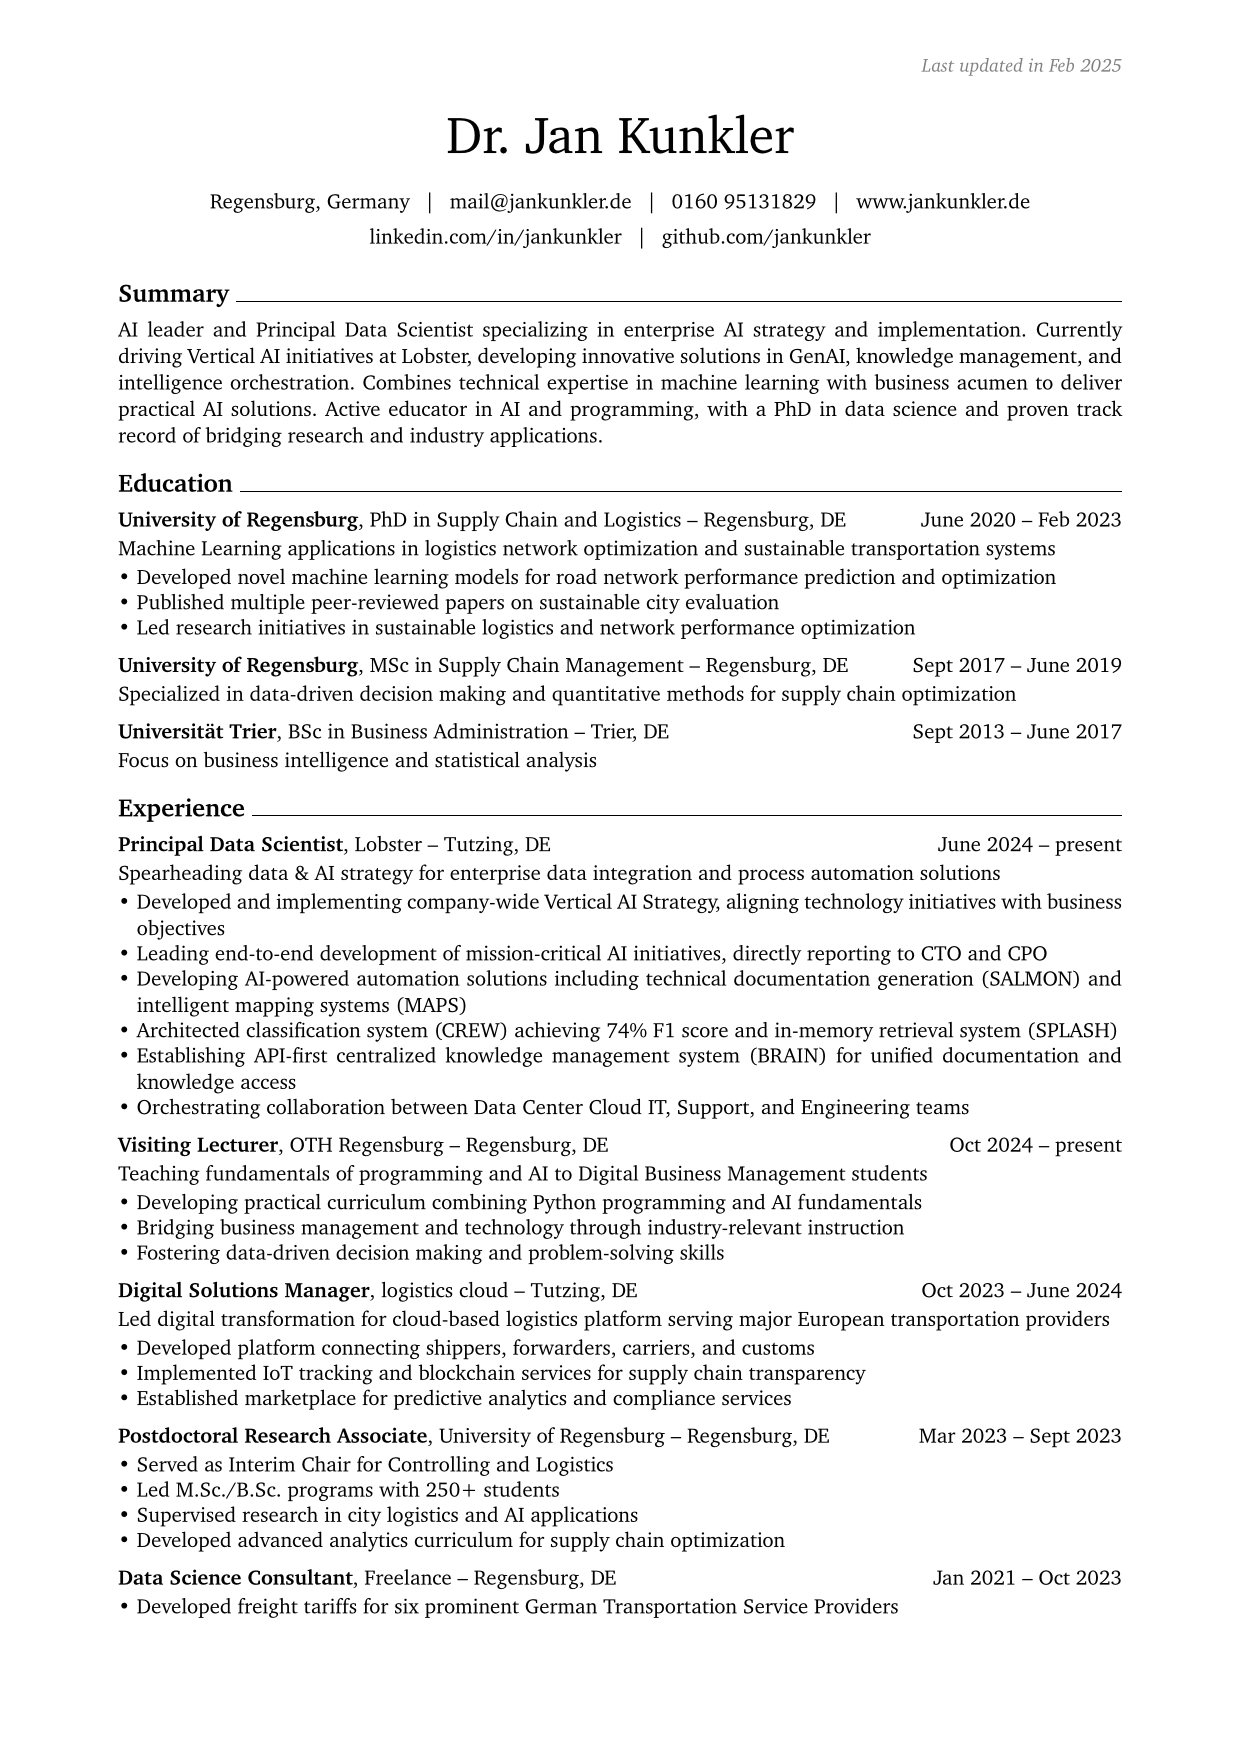
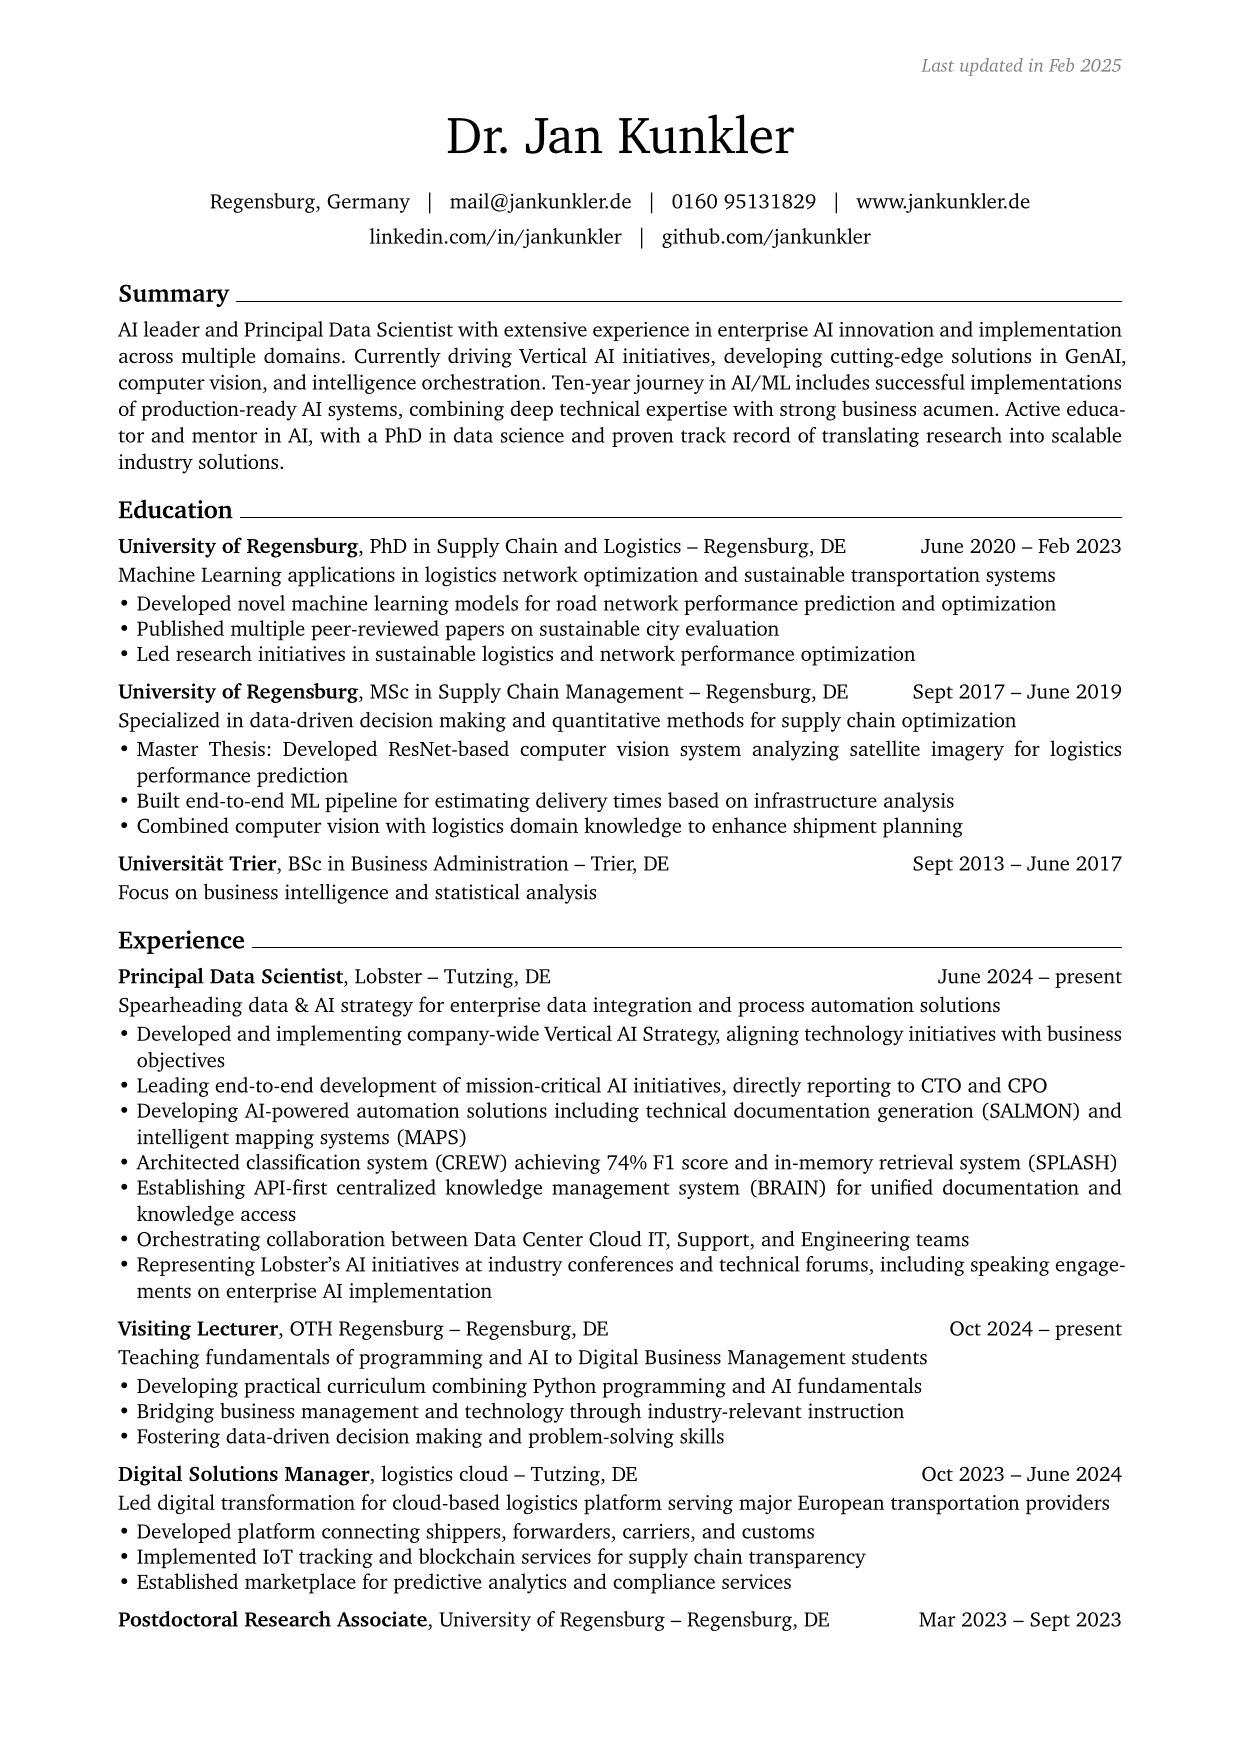
Updated CV

Changed region(s): [[0.0919, 0.1847, 0.9194, 0.9236], [0.7355, 0.8005, 0.8887, 0.862], [0.7355, 0.8928, 0.8887, 0.9236]]

diff --git a/rendercv_output/Dr._Jan_Kunkler_CV.html b/rendercv_output/Dr._Jan_Kunkler_CV.html
@@ -49,7 +49,7 @@
         <li>GitHub: <a href="https://github.com/jankunkler">jankunkler</a></li>
         </ul>
         <h1>Summary</h1>
-        <p>AI leader and Principal Data Scientist specializing in enterprise AI strategy and implementation. Currently driving Vertical AI initiatives at Lobster, developing innovative solutions in GenAI, knowledge management, and intelligence orchestration. Combines technical expertise in machine learning with business acumen to deliver practical AI solutions. Active educator in AI and programming, with a PhD in data science and proven track record of bridging research and industry applications.</p>
+        <p>AI leader and Principal Data Scientist with extensive experience in enterprise AI innovation and implementation across multiple domains. Currently driving Vertical AI initiatives, developing cutting-edge solutions in GenAI, computer vision, and intelligence orchestration. Ten-year journey in AI/ML includes successful implementations of production-ready AI systems, combining deep technical expertise with strong business acumen. Active educator and mentor in AI, with a PhD in data science and proven track record of translating research into scalable industry solutions.</p>
         <h1>Education</h1>
         <h2>University of Regensburg, PhD in Supply Chain and Logistics</h2>
         <ul>
@@ -63,6 +63,9 @@
         <ul>
         <li>Sept 2017 – June 2019</li>
         <li>Regensburg, DE</li>
+        <li>Master Thesis: Developed ResNet-based computer vision system analyzing satellite imagery for logistics performance prediction</li>
+        <li>Built end-to-end ML pipeline for estimating delivery times based on infrastructure analysis</li>
+        <li>Combined computer vision with logistics domain knowledge to enhance shipment planning</li>
         </ul>
         <h2>Universität Trier, BSc in Business Administration</h2>
         <ul>
@@ -80,6 +83,7 @@
         <li>Architected classification system (CREW) achieving 74% F1 score and in-memory retrieval system (SPLASH)</li>
         <li>Establishing API-first centralized knowledge management system (BRAIN) for unified documentation and knowledge access</li>
         <li>Orchestrating collaboration between Data Center Cloud IT, Support, and Engineering teams</li>
+        <li>Representing Lobster's AI initiatives at industry conferences and technical forums, including speaking engagements on enterprise AI implementation</li>
         </ul>
         <h2>OTH Regensburg, Visiting Lecturer</h2>
         <ul>
@@ -140,7 +144,7 @@
         <h1>Skills</h1>
         <ul>
         <li>AI Leadership: AI Strategy Development, Enterprise AI Architecture, Cross-functional Team Leadership, AI Education &amp; Mentorship</li>
-        <li>AI/ML Expertise: Large Language Models, Agentic AI, Multi-Agent Systems, Neural Networks, Machine Learning, MLOps</li>
+        <li>AI/ML Expertise: Large Language Models, Computer Vision, Agentic AI, Multi-Agent Systems, Neural Networks (ResNet, Transformers), Machine Learning, MLOps</li>
         <li>Technical Infrastructure: AWS (SageMaker, Bedrock, Lambda, Fargate), Cloud Architecture, Distributed Systems</li>
         <li>Data Engineering: Knowledge Graphs, ETL Pipeline Design, Python, SQL, R, Go</li>
         <li>Tools &amp; Frameworks: PyTorch, LangChain, Hugging Face Transformers, BAML, Pydantic-AI, Docker, FastAPI, MLflow, Weights &amp; Biases, Metaflow, Ray, Streamlit, Gradio</li>

diff --git a/rendercv_output/Dr._Jan_Kunkler_CV.md b/rendercv_output/Dr._Jan_Kunkler_CV.md
@@ -10,7 +10,7 @@
 
 # Summary
 
-AI leader and Principal Data Scientist specializing in enterprise AI strategy and implementation. Currently driving Vertical AI initiatives at Lobster, developing innovative solutions in GenAI, knowledge management, and intelligence orchestration. Combines technical expertise in machine learning with business acumen to deliver practical AI solutions. Active educator in AI and programming, with a PhD in data science and proven track record of bridging research and industry applications.
+AI leader and Principal Data Scientist with extensive experience in enterprise AI innovation and implementation across multiple domains. Currently driving Vertical AI initiatives, developing cutting-edge solutions in GenAI, computer vision, and intelligence orchestration. Ten-year journey in AI/ML includes successful implementations of production-ready AI systems, combining deep technical expertise with strong business acumen. Active educator and mentor in AI, with a PhD in data science and proven track record of translating research into scalable industry solutions.
 
 # Education
 
@@ -26,6 +26,9 @@ AI leader and Principal Data Scientist specializing in enterprise AI strategy an
 
 - Sept 2017 – June 2019
 - Regensburg, DE
+- Master Thesis: Developed ResNet-based computer vision system analyzing satellite imagery for logistics performance prediction
+- Built end-to-end ML pipeline for estimating delivery times based on infrastructure analysis
+- Combined computer vision with logistics domain knowledge to enhance shipment planning
 
 ## Universität Trier, BSc in Business Administration
 
@@ -44,6 +47,7 @@ AI leader and Principal Data Scientist specializing in enterprise AI strategy an
 - Architected classification system (CREW) achieving 74% F1 score and in-memory retrieval system (SPLASH)
 - Establishing API-first centralized knowledge management system (BRAIN) for unified documentation and knowledge access
 - Orchestrating collaboration between Data Center Cloud IT, Support, and Engineering teams
+- Representing Lobster's AI initiatives at industry conferences and technical forums, including speaking engagements on enterprise AI implementation
 
 ## OTH Regensburg, Visiting Lecturer
 
@@ -104,7 +108,7 @@ AI leader and Principal Data Scientist specializing in enterprise AI strategy an
 # Skills
 
 - AI Leadership: AI Strategy Development, Enterprise AI Architecture, Cross-functional Team Leadership, AI Education & Mentorship
-- AI/ML Expertise: Large Language Models, Agentic AI, Multi-Agent Systems, Neural Networks, Machine Learning, MLOps
+- AI/ML Expertise: Large Language Models, Computer Vision, Agentic AI, Multi-Agent Systems, Neural Networks (ResNet, Transformers), Machine Learning, MLOps
 - Technical Infrastructure: AWS (SageMaker, Bedrock, Lambda, Fargate), Cloud Architecture, Distributed Systems
 - Data Engineering: Knowledge Graphs, ETL Pipeline Design, Python, SQL, R, Go
 - Tools & Frameworks: PyTorch, LangChain, Hugging Face Transformers, BAML, Pydantic-AI, Docker, FastAPI, MLflow, Weights & Biases, Metaflow, Ray, Streamlit, Gradio
